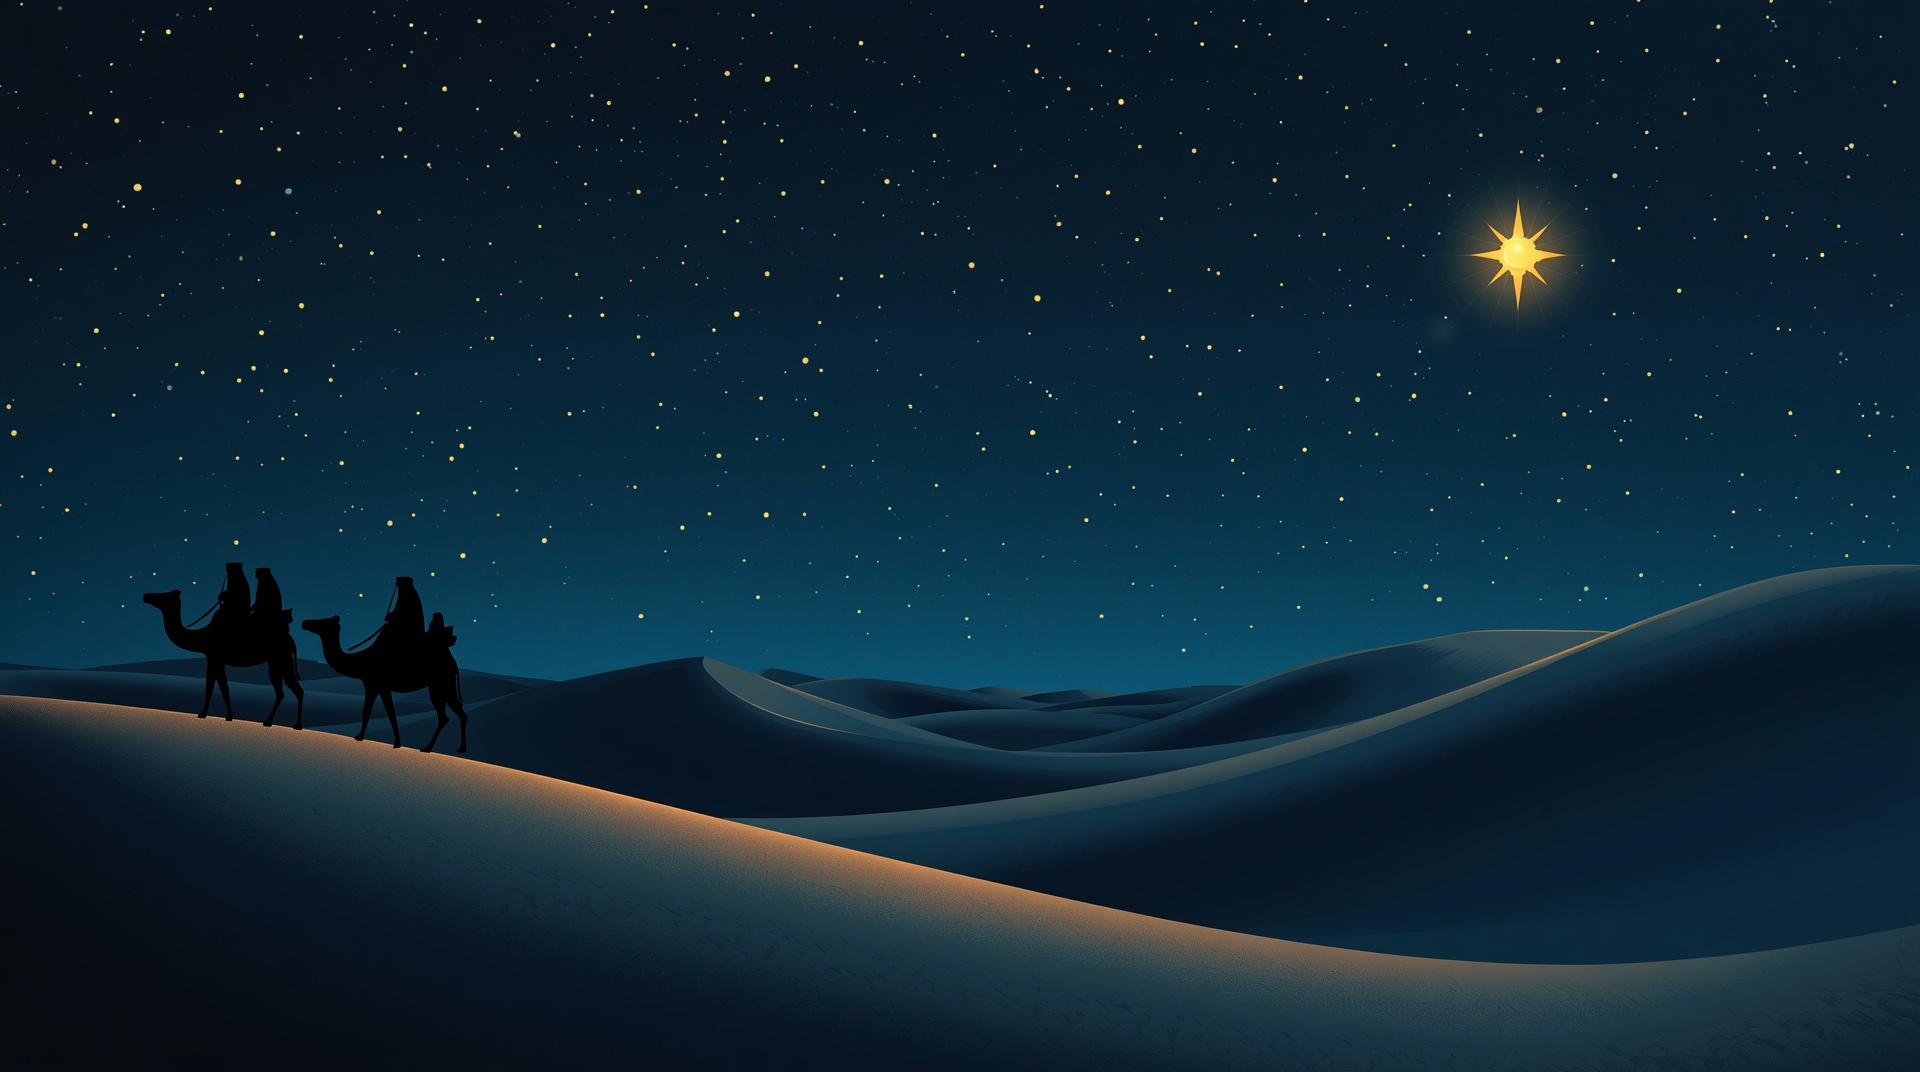
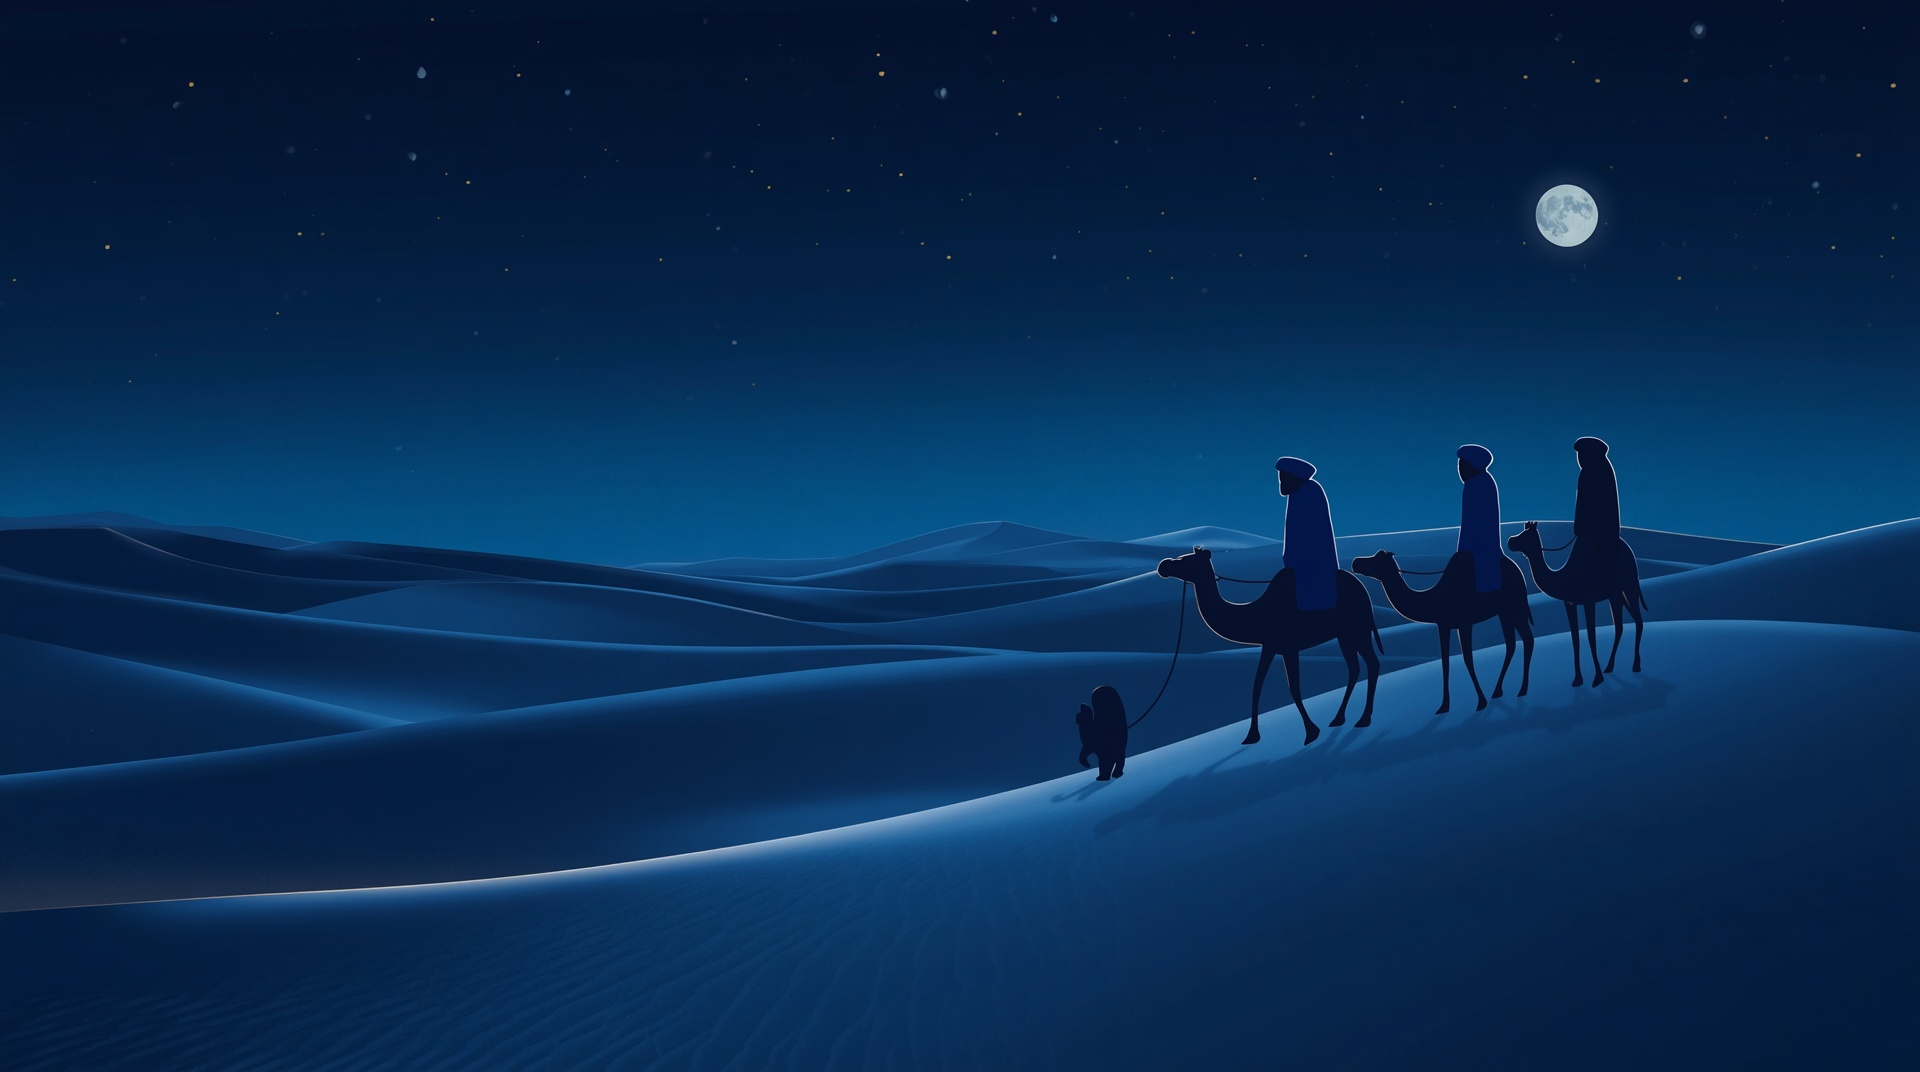
Hero: blue left-facing wise-men caravan + animated drifting guiding star
Swap in the blue, left-facing three-camel caravan and add a CSS-animated
guiding star (drift + twinkle + glow pulse) in the open upper-left sky.

diff --git a/src/components/Hero.jsx b/src/components/Hero.jsx
@@ -41,6 +41,49 @@ function Hero() {
       <div className="starfield" aria-hidden="true" />
       <SkyDecor />
 
+      {/* Animated guiding star: gently drifts and twinkles in the open sky
+          (upper-left), where the caravan is headed. */}
+      <div aria-hidden="true" style={{
+        position: 'absolute',
+        left: 'clamp(8%, 12vw, 16%)',
+        top: 'clamp(12%, 15vh, 20%)',
+        width: 'clamp(64px, 8vw, 120px)',
+        height: 'clamp(64px, 8vw, 120px)',
+        zIndex: 1,
+        pointerEvents: 'none',
+        animation: 'guideDrift 13s ease-in-out infinite',
+      }}>
+        <div style={{
+          position: 'absolute', inset: '-45%',
+          background: 'radial-gradient(circle, rgba(242,201,105,0.5) 0%, rgba(232,180,72,0.14) 38%, transparent 70%)',
+          animation: 'guideGlow 5s ease-in-out infinite',
+        }} />
+        <svg viewBox="0 0 100 100" style={{
+          position: 'relative', width: '100%', height: '100%',
+          animation: 'guideTwinkle 4.5s ease-in-out infinite',
+          transformOrigin: 'center',
+          filter: 'drop-shadow(0 0 14px rgba(242,201,105,0.85))',
+        }}>
+          <path d="M50 1 L57 40 Q58 42 60 43 L99 50 L60 57 Q58 58 57 60 L50 99 L43 60 Q42 58 40 57 L1 50 L40 43 Q42 42 43 40 Z" fill="#F2C969"/>
+          <path d="M50 20 L54 44 L78 50 L54 56 L50 80 L46 56 L22 50 L46 44 Z" fill="#FFF4D6" opacity="0.92"/>
+        </svg>
+      </div>
+
+      <style>{`
+        @keyframes guideDrift {
+          0%, 100% { transform: translate(0, 0); }
+          50%      { transform: translate(-12px, 10px); }
+        }
+        @keyframes guideTwinkle {
+          0%, 100% { transform: scale(1); opacity: 0.92; }
+          50%      { transform: scale(1.14); opacity: 1; }
+        }
+        @keyframes guideGlow {
+          0%, 100% { opacity: 0.6; }
+          50%      { opacity: 1; }
+        }
+      `}</style>
+
       <div className="container" style={{ position: 'relative', textAlign: 'center', zIndex: 2 }}>
         <img
           src="/assets/liabri-logo.png"
